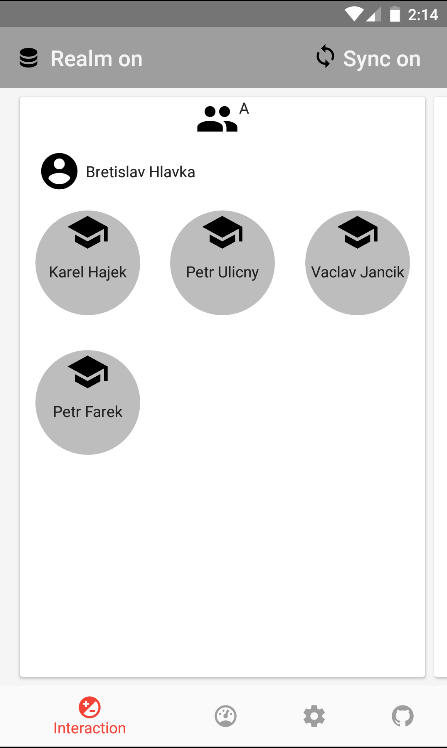
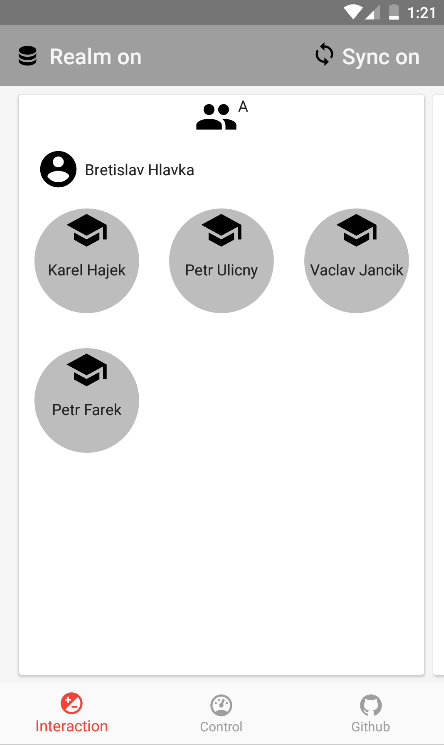
Add control section. Add ability to display database size. Add ability to drop database.

diff --git a/mobile/src/main/java/cz/koto/misak/dbshowcase/android/mobile/persistence/realm/ShowcaseRealmModule.java b/mobile/src/main/java/cz/koto/misak/dbshowcase/android/mobile/persistence/realm/ShowcaseRealmModule.java
@@ -9,6 +9,7 @@ import java.util.List;
 
 import javax.inject.Singleton;
 
+import cz.koto.misak.dbshowcase.android.mobile.DbApplication;
 import cz.koto.misak.dbshowcase.android.mobile.model.DataHandlerListener;
 import cz.koto.misak.dbshowcase.android.mobile.model.SchoolClassInterface;
 import cz.koto.misak.dbshowcase.android.mobile.persistence.realm.model.SchoolClassRealmEntity;
@@ -190,7 +191,12 @@ public class ShowcaseRealmModule {
 		File realmFile = new File(ContextProvider.getContext().getFilesDir(), realm.getConfiguration().getRealmFileName());
 //		FileUtils.folderSize(ContextProvider.getContext().getFilesDir());
 		Timber.d("Getting size of realm file %s:", realmFile.getName());
+		realm.close();
 		return realmFile.length();
 	}
 
+
+	public boolean deleteModel() {
+		return Realm.deleteRealm(DbApplication.get().getDbComponent().provideRealmConfiguration());
+	}
 }

diff --git a/mobile/src/main/java/cz/koto/misak/dbshowcase/android/mobile/model/ModelProvider.java b/mobile/src/main/java/cz/koto/misak/dbshowcase/android/mobile/model/ModelProvider.java
@@ -111,6 +111,23 @@ public class ModelProvider extends SettingsStorage {
 	}
 
 
+	public boolean deleteModel() {
+		switch(mPersistenceType) {
+			case REALM:
+				if(mRealmModule.deleteModel()) {
+					mSchoolModel.getSchoolItems().clear();
+					return true;
+				}
+				break;
+			case DB_FLOW:
+			case NONE:
+			default:
+				return false;
+		}
+		return false;
+	}
+
+
 	public SchoolModel getSchoolModel() {
 		return mSchoolModel;
 	}

diff --git a/mobile/src/main/java/cz/koto/misak/dbshowcase/android/mobile/ui/control/ControlRootViewModel.java b/mobile/src/main/java/cz/koto/misak/dbshowcase/android/mobile/ui/control/ControlRootViewModel.java
@@ -32,4 +32,10 @@ public class ControlRootViewModel extends BaseViewModel<FragmentControlRootBindi
 		updateToolbar();
 		dbSize.set(ModelProvider.get().getDbSizeInBytes());
 	}
+
+
+	public void deleteModel() {
+		if(ModelProvider.get().deleteModel())
+			getNavigationManager().getControlNavigationManager().switchToRoot();
+	}
 }
